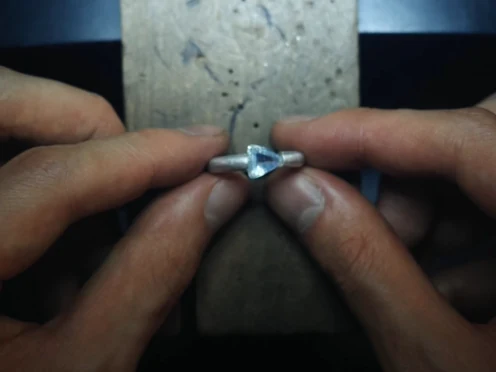
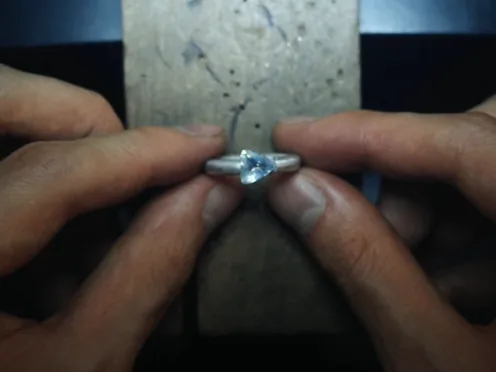
入口のページ：残すの札をついてこないように・「ごく少なく」・3 つ目の大きな言葉を小さな横書きに・工房に入れておけば…を黒の上に横書き・決めるのは職人です を外す・なぜ作ったかを少し下に・職人の指輪の写真を傾いていない 1 こまに。指示書の印刷で、2 列の札がページの途中で切れないように（作者の声）

diff --git a/src/lp/lp.css b/src/lp/lp.css
@@ -85,7 +85,7 @@ figcaption { font-size: 15.5px; line-height: 1.75; margin-top: 12px; color: var(
 .hero-by { font-size: clamp(16.5px, 1.3vw, 19px); color: var(--white-2); }
 
 /* ---- なぜ作ったか ---- */
-.reason { max-width: 980px; margin: 0 auto; padding: var(--sec) var(--gut); display: grid; gap: 28px; }
+.reason { max-width: 980px; margin: 0 auto; padding: calc(var(--sec) + 14vh) var(--gut) var(--sec); display: grid; gap: 28px; }  /* 2026-11-08 作者：はじめの画面を少し下げてから出す */
 .reason-q p { font: 400 clamp(26px, 3.1vw, 44px)/1.65 var(--mincho); letter-spacing: 0.04em; }
 .reason-q p::before { content: "「"; margin-left: -0.6em; }
 .reason-q p::after { content: "」"; }
@@ -94,6 +94,9 @@ figcaption { font-size: 15.5px; line-height: 1.75; margin-top: 12px; color: var(
 /* ---- 序の言葉：1 つずつ画面いっぱいに（前の版の序。動画の n2・n3 と同じ言葉）。字は少しずつ遅れて濃くなる ---- */
 .say-full { min-height: 100svh; display: flex; flex-direction: row-reverse; justify-content: center; align-items: center; gap: clamp(24px, 5vw, 76px); padding: clamp(72px, 12vh, 120px) var(--gut); background: var(--black); overflow: hidden; }
 .say-full.s3 { background: var(--char); }
+/* 2026-11-08 作者：大きな見出しが多くてうるさい → 3 つ目は、2 つ目の下に小さく横書きで */
+.say-after { background: var(--black); text-align: center; padding: 0 var(--gut) clamp(72px, 14vh, 140px); margin-top: clamp(-120px, -10vh, -60px); }
+.say-after p { font: 400 clamp(20px, 1.9vw, 28px)/1.8 var(--mincho); letter-spacing: 0.06em; color: var(--white-2); }
 .sf-l { font-size: clamp(26px, 2.9vw, 42px); line-height: 2; }
 .sf-m { font-size: clamp(32px, 3.8vw, 56px); line-height: 1.9; }
 .sf-k { font-size: clamp(52px, 6.4vw, 96px); line-height: 1.1; letter-spacing: 0.12em; }
@@ -140,7 +143,7 @@ figcaption { font-size: 15.5px; line-height: 1.75; margin-top: 12px; color: var(
 .steps b { font: 400 22px/1.5 var(--mincho); color: var(--shu); }
 .steps p { font-size: clamp(16.5px, 1.2vw, 18px); line-height: 1.85; }
 .steps strong { display: block; font: 400 clamp(19px, 1.6vw, 22px)/1.6 var(--mincho); letter-spacing: 0.03em; margin-bottom: 2px; }
-.keep-shots { display: grid; gap: 16px; position: sticky; top: 88px; }
+.keep-shots { display: grid; gap: 16px; align-content: start; }  /* 2026-11-08 作者：札が画面についてくるのはやめる（その場にいる） */
 /* 工房ごと：2 つの帳面の指輪を並べる（前の版の見せ方） */
 .book { padding: var(--sec) var(--gut); background: var(--black); display: grid; grid-template-columns: minmax(0, 1fr) auto; gap: clamp(24px, 4vw, 64px); align-items: start; }
 .book-h { grid-column: 2; grid-row: 1; font-size: clamp(27px, 2.8vw, 40px); line-height: 2; }
@@ -318,7 +321,8 @@ figcaption { font-size: 15.5px; line-height: 1.75; margin-top: 12px; color: var(
 .own-t { display: grid; gap: 18px; }
 .own-f img { border-radius: 8px; border: 1px solid var(--hair); }
 /* 工房に：罫の紙に縦の字（前の版）。罫は字の列と同じ間隔で、字の列の右の端から引く（両わきにも 4 本ずつ） */
-.ifever { --ifs: clamp(27px, 3.6vw, 52px); --rule: calc(var(--ifs) * 2); display: flex; justify-content: center; padding: clamp(84px, 14vh, 144px) var(--gut); overflow: hidden; background: var(--paper); color: var(--ink); }
+.ifever { display: flex; justify-content: center; padding: clamp(84px, 14vh, 144px) var(--gut); background: var(--black); color: var(--white); }  /* 2026-11-08 作者：縦の罫線は安っぽい → 黒の上に横書き */
+.ifever-t { font: 400 clamp(22px, 2.6vw, 38px)/1.7 var(--mincho); letter-spacing: 0.06em; text-align: center; }
 .ifever-v { font-size: var(--ifs); line-height: 2; padding: clamp(84px, 14vh, 144px) calc(var(--rule) * 4); margin: calc(clamp(84px, 14vh, 144px) * -1) 0; background-image: linear-gradient(to right, rgba(190, 50, 30, 0.22) 0 1px, transparent 1px); background-size: var(--rule) 100%; background-repeat: repeat-x; background-position: right calc(var(--rule) * 4) top; }
 
 /* ---- Claude の立ち位置 ---- */

diff --git a/src/lp/main.ts b/src/lp/main.ts
@@ -182,9 +182,8 @@ const html = `
     <p class="v sf-l rv">その判断も</p>
     <p class="v sf-big rv">消えます。</p>
   </section>
-  <section class="say-full s3" aria-label="継ぐは、その判断を残して、次の人へ渡します。">
-    <p class="v sf-k rv">継ぐは、</p>
-    <p class="v sf-m rv">その判断を残して、<br>次の人へ渡します。</p>
+  <section class="say-after" aria-label="継ぐは、その判断を残して、次の人へ渡します。">
+    <p class="rv">継ぐは、その判断を残して、次の人へ渡します。</p>
   </section>
 
   <section class="how" id="how" aria-labelledby="how-h">
@@ -483,12 +482,7 @@ const html = `
   </section>
 
   <section class="ifever" aria-label="工房に">
-    <p class="v ifever-v rv">工房に入れておけば、<br>万が一の時に役立ちます。</p>
-  </section>
-
-  <section class="stance" aria-labelledby="stance-h">
-    <h2 id="stance-h" class="rv">決めるのは、職人です。</h2>
-    <p class="rv">Claude は職人の決まりを読み、案を出し、理由を残します。</p>
+    <p class="ifever-t rv">工房に入れておけば、万が一の時に役立ちます。</p>
   </section>
 
   <section class="end" aria-labelledby="end-h">

diff --git a/src/studio/sheet.ts b/src/studio/sheet.ts
@@ -53,7 +53,11 @@ dd { margin: 0.5mm 0 0; font-size: 11pt; font-variant-numeric: tabular-nums; }
 .ng { background: #f8e3de; color: #8a2a1c; }
 h2 { font-weight: 700; font-size: 11pt; margin: 6mm 0 3mm; }
 ${CARDS_PRINT_CSS}
-.two .sc { grid-template-columns: 1fr 1fr; }
+/* 2026-11-08 作者：PDF で札が 2 ページにまたがって切れた。2 列の格子の札は、ブラウザによって「途中で切らない」が効かない。
+   2 列は、札を 1 つの塊（inline-block。ページの途中で割れない）として横に 2 つ並べる形にする。入りきらない札は次のページへ */
+.two .sc { display: block; font-size: 0; }
+.two .sc > .sc-card { display: inline-block; vertical-align: top; width: calc(50% - 1.5mm); margin: 0 0 3mm; font-size: 10pt; box-sizing: border-box; }
+.two .sc > .sc-card:nth-child(odd) { margin-right: 3mm; }
 .two .sc-body { margin-left: 0; }
 .foot { margin-top: 4mm; font-size: 7.5pt; color: #666; }
 </style></head><body>

diff --git a/src/studio/why.ts b/src/studio/why.ts
@@ -59,6 +59,7 @@ export function bindFlowMotion(root: ParentNode): void {
 export function flowAfterSvg(): string {
   return `<svg class="ff" viewBox="0 0 360 150" role="img" aria-label="継ぐの枠の中に、デザイン・設計（CAD）と職人の判断がある。そこから制作へまっすぐ進む。戻りはごく細い線だけ">
     <path class="ff-faint" d="M326 66C316 14 262 6 214 18"/>
+    <text class="ff-say ff-say-few" x="292" y="46" text-anchor="middle">ごく少なく</text>
     <rect class="ff-box" x="4" y="18" width="226" height="126"/>
     <g class="ff-labels">
       <text class="ff-in" x="117" y="52" text-anchor="middle">継ぐ</text>
